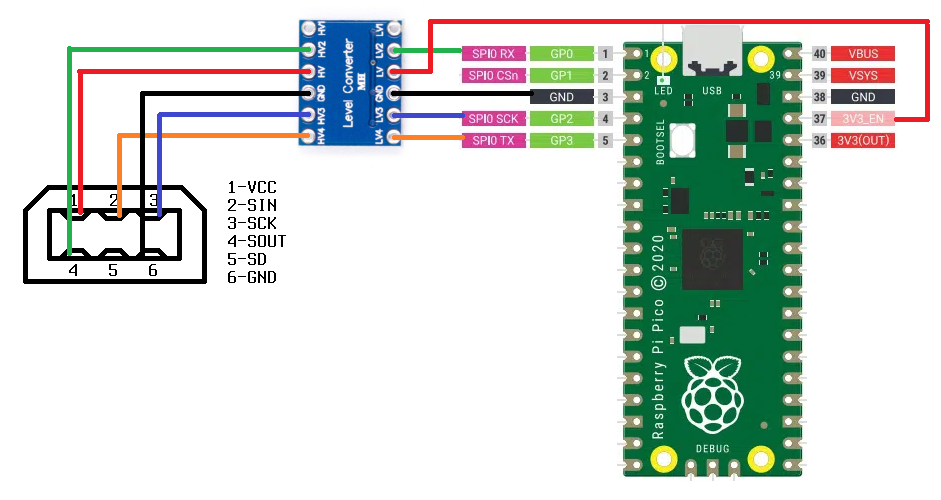
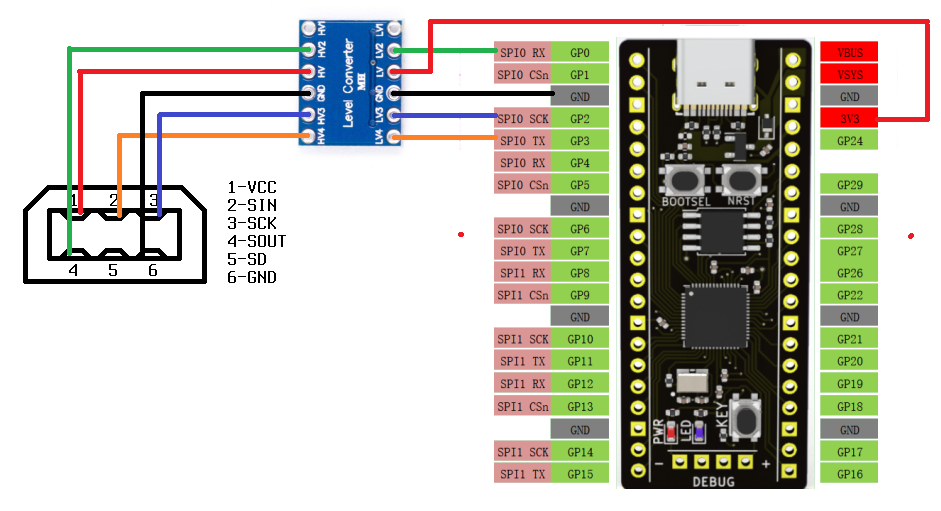
update pins for the GPIO mode

diff --git a/src/pico_gb_printer.c b/src/pico_gb_printer.c
@@ -28,17 +28,17 @@
 #define SEC(A)                  ((A) * 1000 * 1000)
 
 // GPIO mode
-#define PIN_SCK                 0
-#define PIN_SIN                 1
-#define PIN_SOUT                2
+#define PIN_SIN                 0
+#define PIN_SCK                 2
+#define PIN_SOUT                3
 
 // SPI mode
 #define SPI_PORT                spi0
 #define SPI_BAUDRATE            64 * 1024 * 8
 
+#define PIN_SPI_SIN             0
 #define PIN_SPI_SCK             2
 #define PIN_SPI_SOUT            3
-#define PIN_SPI_SIN             0
 
 // "Tear" button
 #define PIN_KEY                 23
